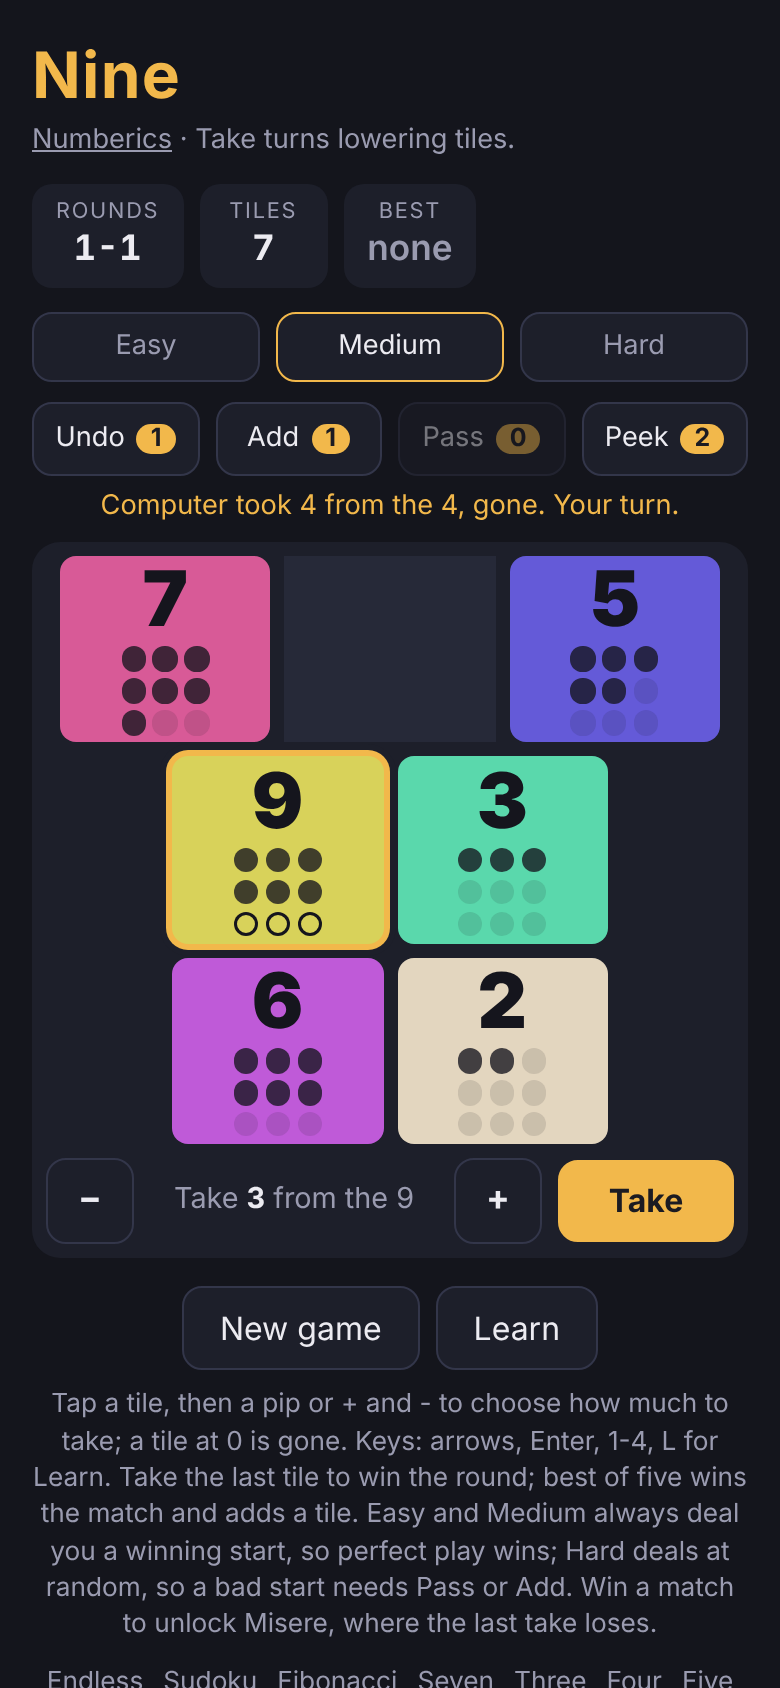
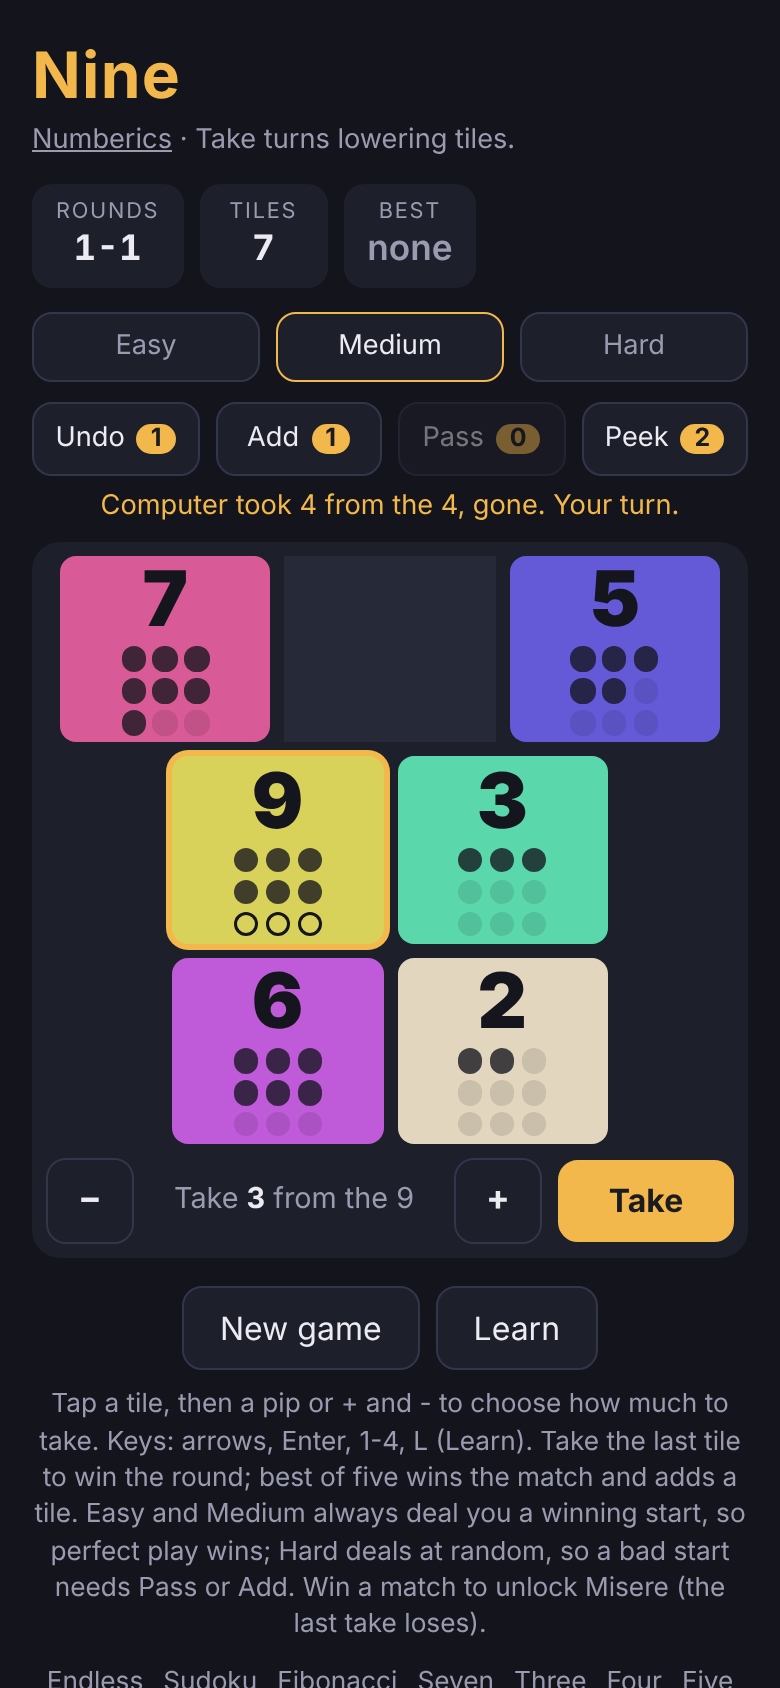
WIP: round 1 fixes in progress (snapshot)

Changed region(s): [[0.0308, 0.8318, 0.9538, 0.9858]]

diff --git a/nine/index.html b/nine/index.html
@@ -16,7 +16,7 @@
   <header>
     <div class="brand">
       <h1>Nine</h1>
-      <p class="sub"><a href="../">Numberics</a> &middot; Take turns lowering tiles.</p>
+      <p class="sub"><a href="../">Numberics</a> &middot; Take the last tile to win.</p>
     </div>
     <div class="stats" aria-live="off">
       <div class="stat" title="Rounds in this match: you-computer, first to three"><span>Rounds</span><b id="match">0-0</b></div>
@@ -57,10 +57,8 @@
     <button id="learn-btn" class="btn" type="button" aria-pressed="false" title="Show each tile in binary and the goal (L). The live nim-sum is on Easy and Medium only.">Learn</button>
     <button id="misere" class="btn" type="button" aria-pressed="false" title="Misere: the last take loses" hidden>Misere</button>
   </div>
-  <p class="how">Tap a tile, then a pip or + and - to choose how much to take; a tile at 0 is gone. Keys: arrows, Enter, 1-4, L for Learn.
-     Take the last tile to win the round; best of five wins the match and adds a tile. Easy and Medium always deal you a
-     winning start, so perfect play wins; Hard deals at random, so a bad start needs Pass or Add. Win a match to unlock
-     Misere, where the last take loses.</p>
+  <p class="how">Tap a tile, then a pip or + and - to set the take. Keys: arrows, Enter, 1-4, L. Best of five rounds
+     adds a tile. Easy and Medium deal you a winning start; Hard deals at random. A match win unlocks Misere (last take loses).</p>
   <nav id="games" class="games" data-root="../" data-current="nine" aria-label="Numberics games"></nav>
   <div id="toast" class="toast" role="status" aria-live="polite"></div>
 </main>

diff --git a/nine/game.js b/nine/game.js
@@ -130,7 +130,8 @@
     var ln = $("learn"); ln.hidden = !prefs.learn; ln.textContent = "";
     if (prefs.learn) {
       var goal = document.createElement("span"); goal.className = "goal";
-      goal.textContent = "To win, leave a nim-sum of 0 after your move. Nim-sum: add the binary columns, dropping every carry.";
+      goal.textContent = "To win, leave a nim-sum of 0 after your move" + (state.misere ? " (Misere: once every tile is 1 or gone, leave an odd number of 1s)" : "") +
+        ". Nim-sum: add the binary columns, dropping every carry.";
       ln.appendChild(goal);
       var sum = document.createElement("span"); sum.className = "sum";
       if (state.diff === "hard") {
